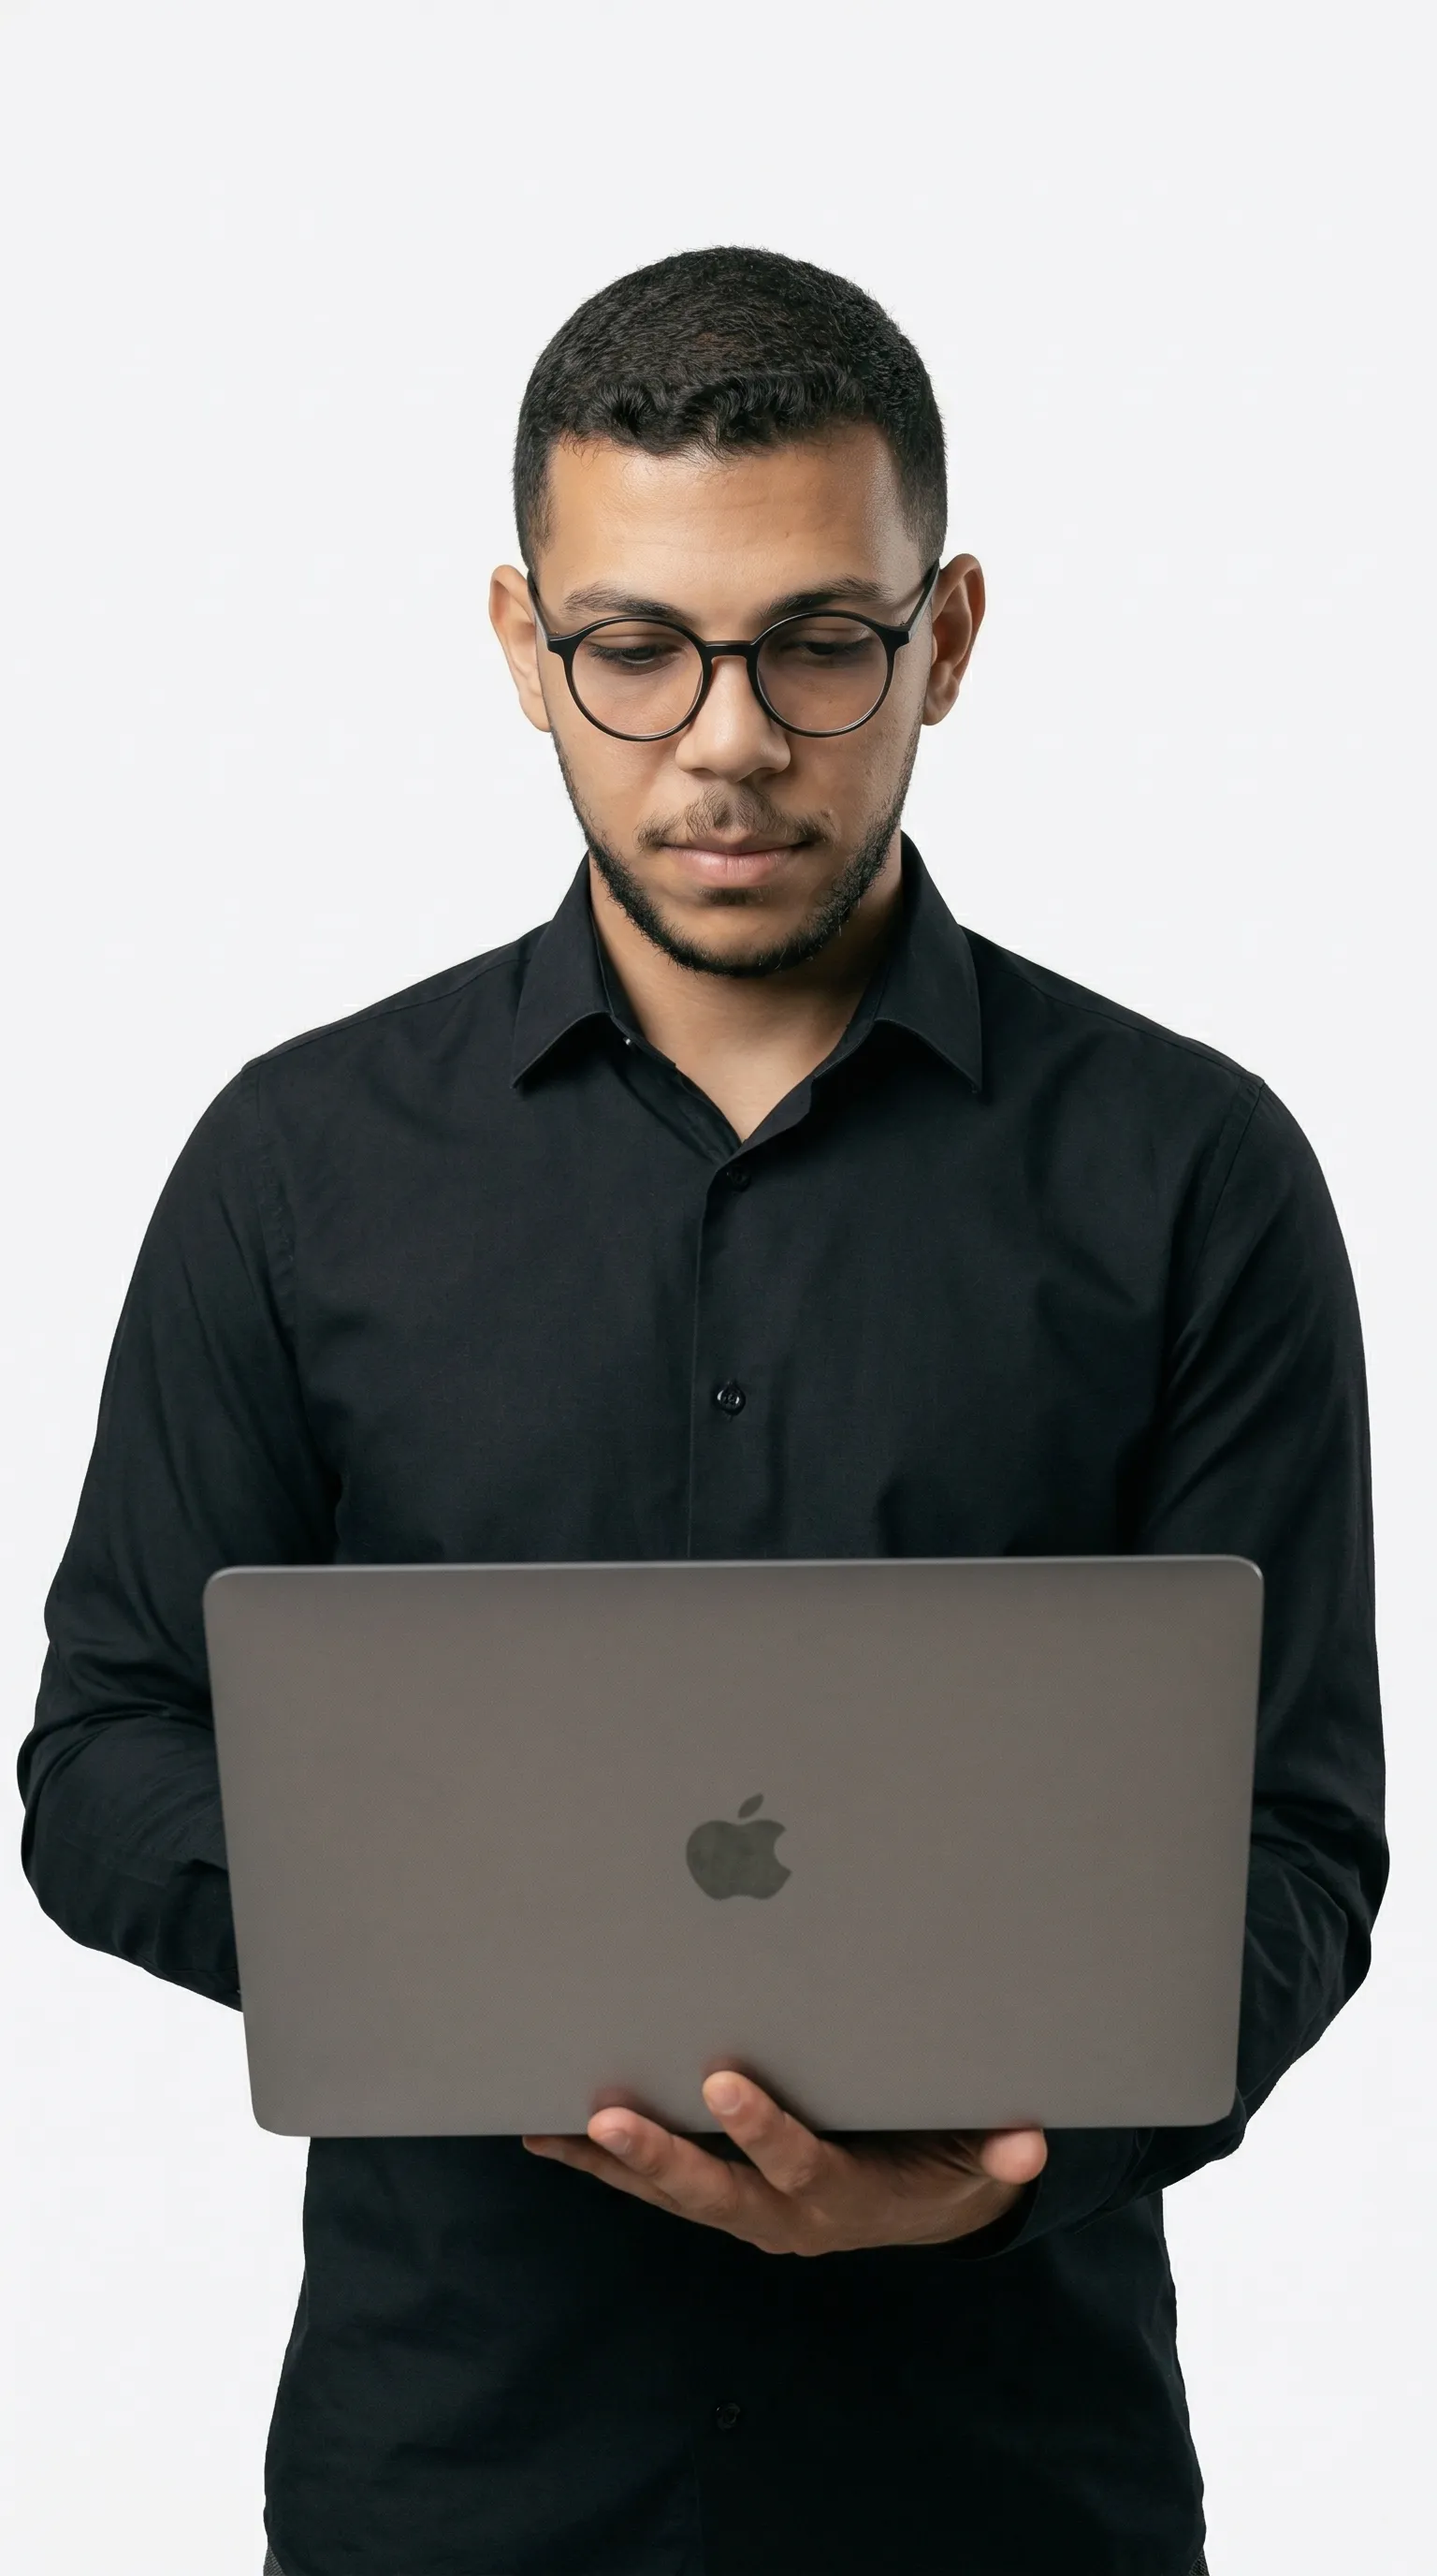
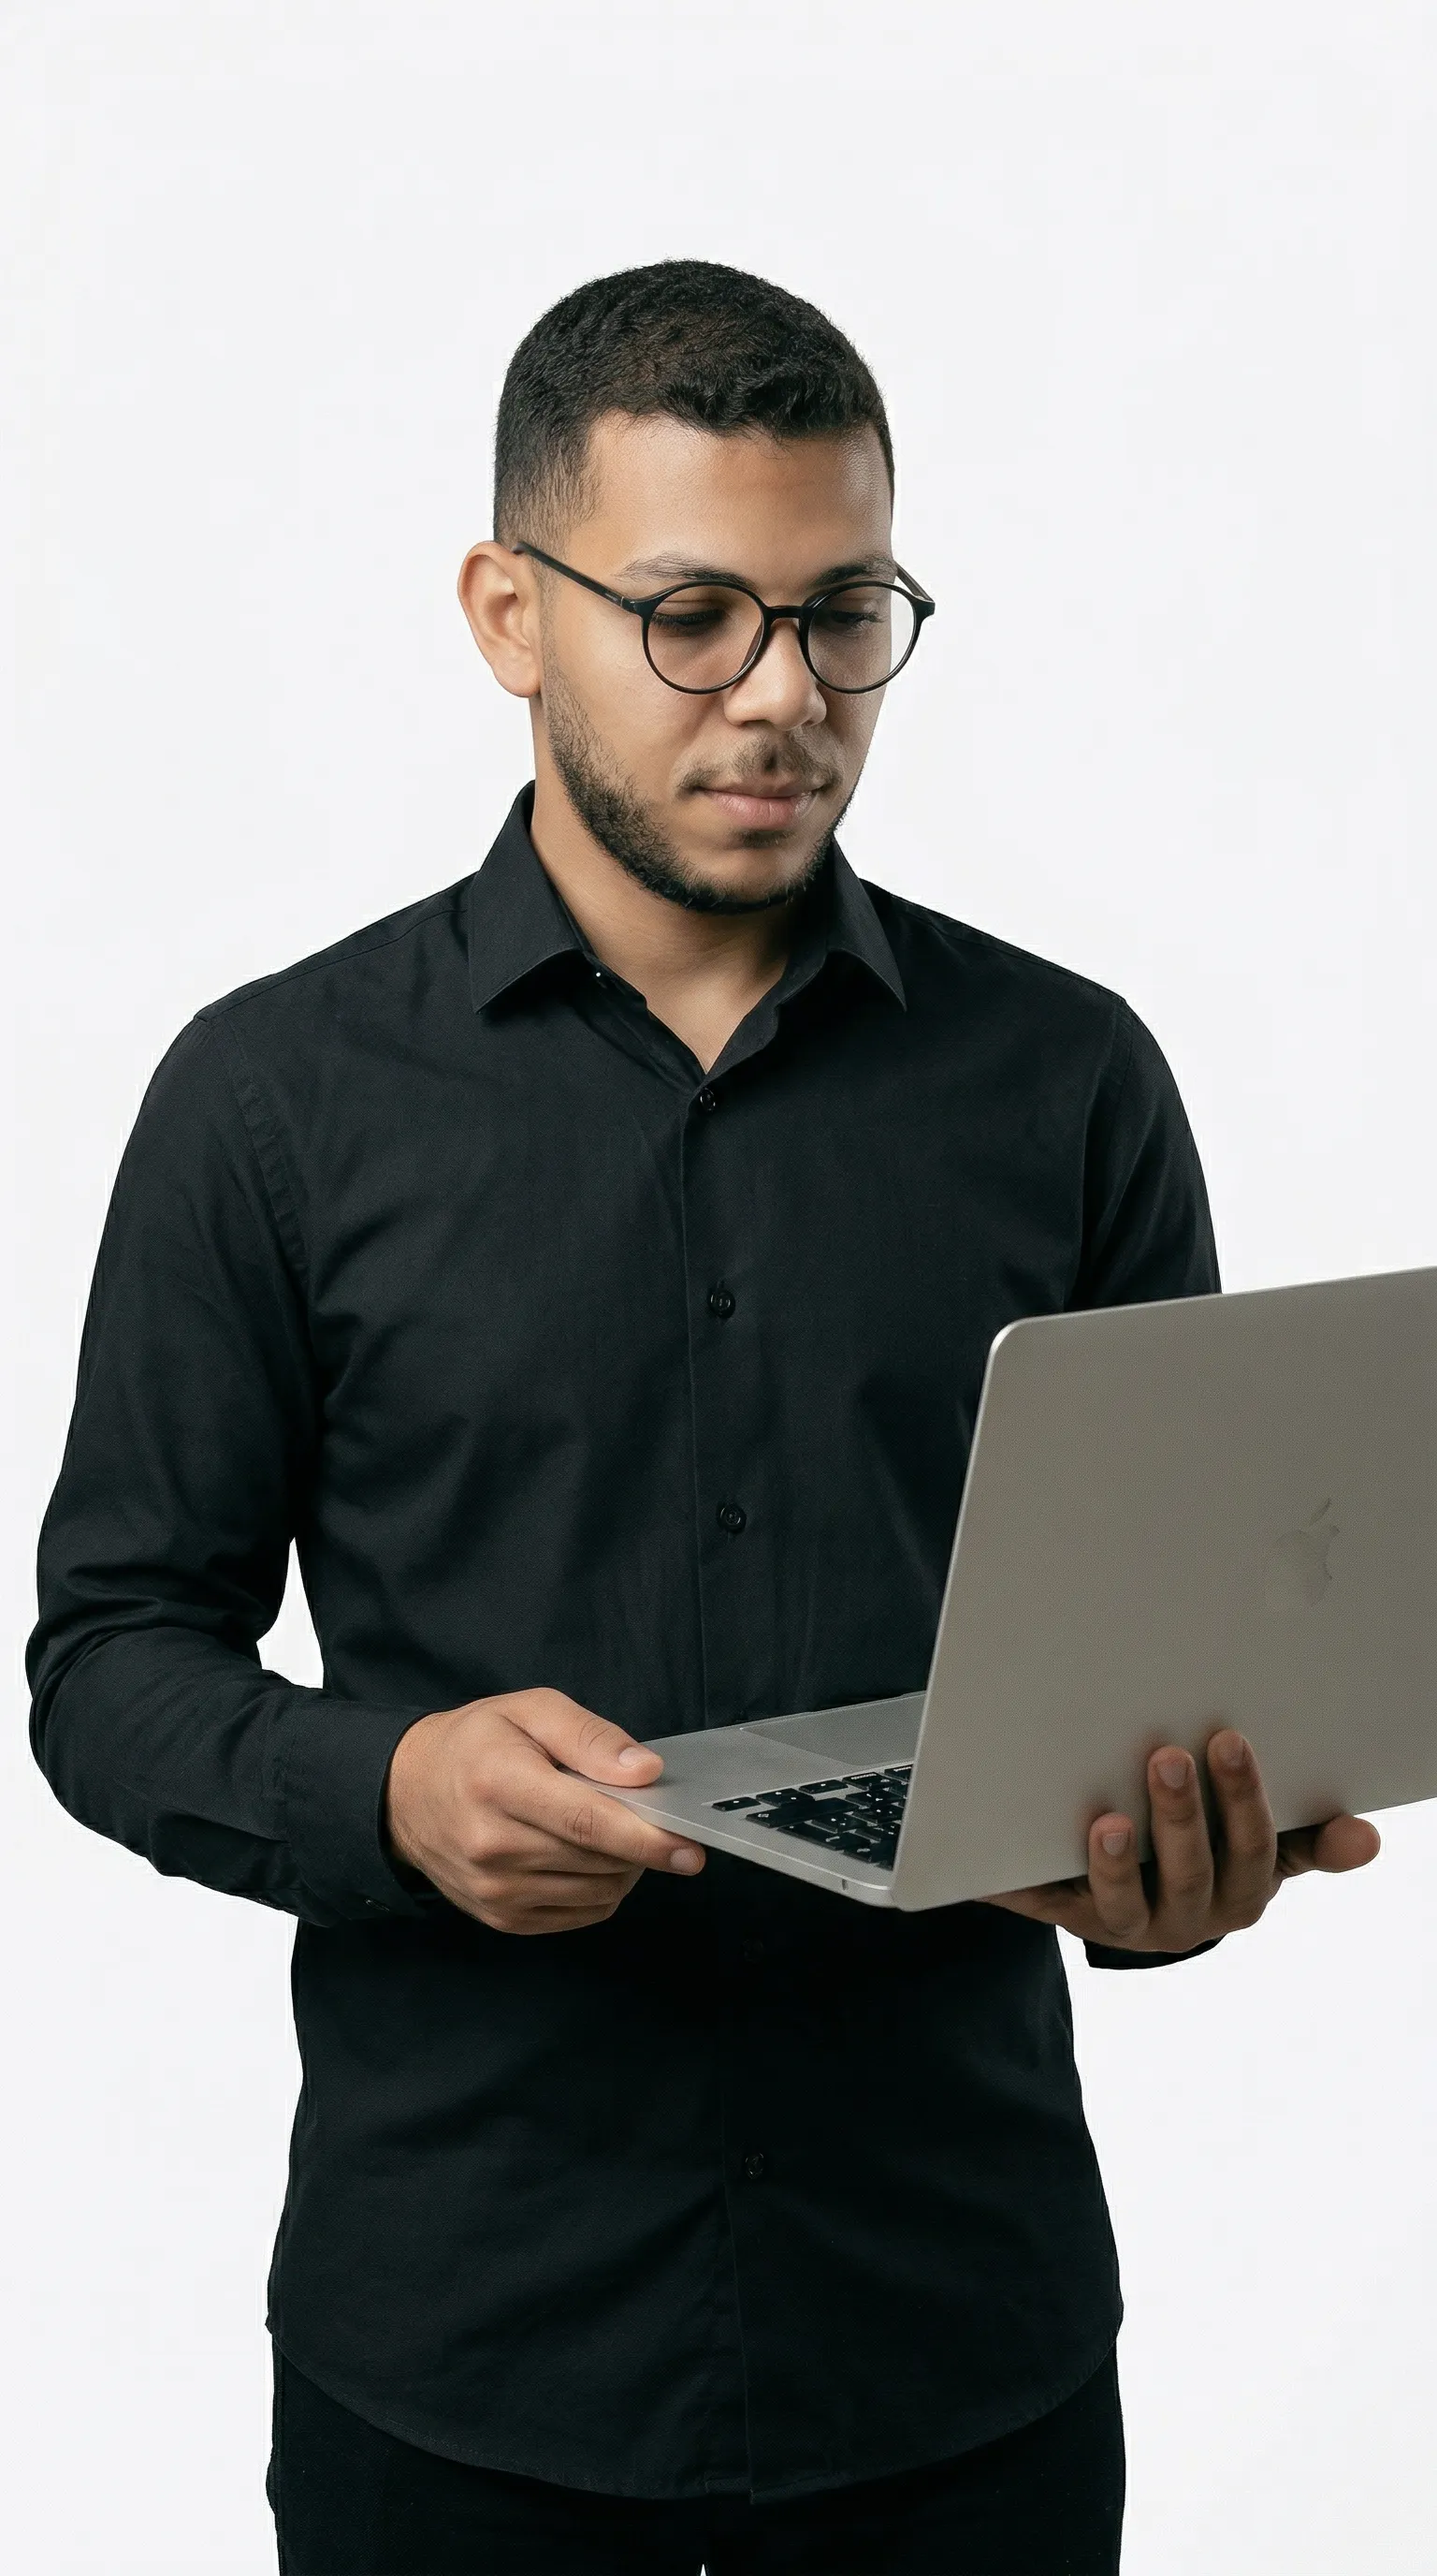
some modification for the loader

diff --git a/src/App.jsx b/src/App.jsx
@@ -1,4 +1,4 @@
-import React, { useEffect, useState } from "react";
+import React, { useEffect, useRef, useState } from "react";
 import Navbar from "./components/Navbar";
 import ScrollSmootherLayout from "./components/ScrollSmootherLayout.jsx";
 import Hero from "./components/Hero.jsx";
@@ -6,71 +6,130 @@ import About from "./components/About.jsx";
 import Services from "./components/Services.jsx";
 import Contact from "./components/Contact.jsx";
 import Work from "./components/Work.jsx";
-import BentoGallery from "./components/BentoGallery.jsx";
 import Feedback from "./components/Feedback.jsx";
+
+const ASSET_TIMEOUT_MS = 8000;
+const MIN_LOADER_MS = 450;
 
 export default function App() {
   const [targetProgress, setTargetProgress] = useState(0);
   const [displayProgress, setDisplayProgress] = useState(0);
   const [isReady, setIsReady] = useState(false);
+  const loaderStartRef = useRef(0);
+  const roundedDisplayProgress = Math.round(displayProgress);
 
   useEffect(() => {
-    let loadedCount = 0;
-    let isWindowLoadedCounted = false;
-    const cleanupFns = [];
+    loaderStartRef.current = performance.now();
 
-    const images = Array.from(document.images);
-    const videos = Array.from(document.querySelectorAll("video"));
-    const totalAssets = images.length + videos.length + 1; // +1 for full window load
+    let loadedCount = 0;
+    let isCancelled = false;
+    const cleanupFns = [];
+    const timeoutIds = [];
+    const criticalImages = Array.from(
+      document.querySelectorAll('img[data-preload="critical"]'),
+    );
+    const criticalVideos = Array.from(
+      document.querySelectorAll('video[data-preload="critical"]'),
+    );
+    const includesFonts = Boolean(document.fonts?.ready);
+    const totalAssets =
+      criticalImages.length + criticalVideos.length + (includesFonts ? 1 : 0) + 1; // +1 for window load
 
     const updateProgress = () => {
+      if (isCancelled) return;
       const next = Math.round((loadedCount / totalAssets) * 100);
       setTargetProgress((prev) => Math.max(prev, next));
     };
 
-    const markLoaded = () => {
+    const markLoaded = (teardown) => {
+      if (teardown) teardown();
+      if (isCancelled) return;
       loadedCount += 1;
       updateProgress();
     };
 
-    images.forEach((image) => {
+    const createOnceDone = (teardown) => {
+      let done = false;
+
+      return () => {
+        if (done) return;
+        done = true;
+        markLoaded(teardown);
+      };
+    };
+
+    criticalImages.forEach((image) => {
       if (image.complete) {
         markLoaded();
         return;
       }
 
-      const onLoad = () => markLoaded();
-      const onError = () => markLoaded();
+      let assetTimeout = 0;
+      let onLoad = null;
+      let onError = null;
+      const onDone = createOnceDone(() => {
+        if (onLoad) image.removeEventListener("load", onLoad);
+        if (onError) image.removeEventListener("error", onError);
+        window.clearTimeout(assetTimeout);
+      });
+
+      assetTimeout = window.setTimeout(onDone, ASSET_TIMEOUT_MS);
+      timeoutIds.push(assetTimeout);
+
+      onLoad = () => onDone();
+      onError = () => onDone();
       image.addEventListener("load", onLoad, { once: true });
       image.addEventListener("error", onError, { once: true });
       cleanupFns.push(() => {
         image.removeEventListener("load", onLoad);
         image.removeEventListener("error", onError);
+        window.clearTimeout(assetTimeout);
       });
     });
 
-    videos.forEach((video) => {
-      if (video.readyState >= 3) {
+    criticalVideos.forEach((video) => {
+      if (video.readyState >= 2) {
         markLoaded();
         return;
       }
 
-      const onLoadedData = () => markLoaded();
-      const onError = () => markLoaded();
+      let assetTimeout = 0;
+      let onLoadedData = null;
+      let onError = null;
+      const onDone = createOnceDone(() => {
+        if (onLoadedData) video.removeEventListener("loadeddata", onLoadedData);
+        if (onError) video.removeEventListener("error", onError);
+        window.clearTimeout(assetTimeout);
+      });
+
+      assetTimeout = window.setTimeout(onDone, ASSET_TIMEOUT_MS);
+      timeoutIds.push(assetTimeout);
+
+      onLoadedData = () => onDone();
+      onError = () => onDone();
       video.addEventListener("loadeddata", onLoadedData, { once: true });
       video.addEventListener("error", onError, { once: true });
       cleanupFns.push(() => {
         video.removeEventListener("loadeddata", onLoadedData);
         video.removeEventListener("error", onError);
+        window.clearTimeout(assetTimeout);
       });
     });
 
-    const onWindowLoaded = () => {
-      if (isWindowLoadedCounted) return;
-      isWindowLoadedCounted = true;
-      markLoaded();
-      setTargetProgress(100);
-    };
+    const onFontsDone = createOnceDone();
+    if (includesFonts) {
+      let fontTimeout = 0;
+      fontTimeout = window.setTimeout(onFontsDone, ASSET_TIMEOUT_MS);
+      timeoutIds.push(fontTimeout);
+      document.fonts.ready.finally(() => {
+        window.clearTimeout(fontTimeout);
+        onFontsDone();
+      });
+    } else {
+      onFontsDone();
+    }
+
+    const onWindowLoaded = createOnceDone();
 
     if (document.readyState === "complete") {
       onWindowLoaded();
@@ -82,40 +141,77 @@ export default function App() {
     }
 
     return () => {
+      isCancelled = true;
       cleanupFns.forEach((fn) => fn());
+      timeoutIds.forEach((id) => window.clearTimeout(id));
     };
   }, []);
 
   useEffect(() => {
-    if (displayProgress >= targetProgress) return;
+    let rafId = 0;
 
-    const timer = window.setInterval(() => {
+    const animate = () => {
       setDisplayProgress((current) => {
-        if (current >= targetProgress) return current;
-        const diff = targetProgress - current;
-        const step = diff > 12 ? 4 : 1;
-        return Math.min(current + step, targetProgress);
-      });
-    }, 16);
+        if (current >= targetProgress || targetProgress <= 0) {
+          return current;
+        }
 
-    return () => window.clearInterval(timer);
-  }, [targetProgress, displayProgress]);
+        const diff = targetProgress - current;
+        const step = diff > 20 ? 3.2 : diff > 8 ? 1.8 : 0.8;
+        const next = Math.min(current + step, targetProgress);
+
+        if (next < targetProgress) {
+          rafId = window.requestAnimationFrame(animate);
+        }
+
+        return next;
+      });
+    };
+
+    rafId = window.requestAnimationFrame(animate);
+
+    return () => window.cancelAnimationFrame(rafId);
+  }, [targetProgress]);
 
   useEffect(() => {
-    if (targetProgress !== 100 || displayProgress !== 100) return;
+    if (targetProgress !== 100 || roundedDisplayProgress !== 100) return;
+
+    const elapsed = performance.now() - loaderStartRef.current;
+    const delay = Math.max(0, MIN_LOADER_MS - elapsed);
 
     const doneTimer = window.setTimeout(() => {
       setIsReady(true);
-    }, 200);
+    }, delay);
 
     return () => window.clearTimeout(doneTimer);
-  }, [targetProgress, displayProgress]);
+  }, [targetProgress, roundedDisplayProgress]);
 
   useEffect(() => {
-    document.body.style.overflow = isReady ? "" : "hidden";
+    if (isReady) return;
+
+    const scrollY = window.scrollY;
+    const previousStyles = {
+      overflow: document.body.style.overflow,
+      position: document.body.style.position,
+      width: document.body.style.width,
+      top: document.body.style.top,
+      overscrollBehaviorY: document.documentElement.style.overscrollBehaviorY,
+    };
+
+    document.body.style.overflow = "hidden";
+    document.body.style.position = "fixed";
+    document.body.style.width = "100%";
+    document.body.style.top = `-${scrollY}px`;
+    document.documentElement.style.overscrollBehaviorY = "none";
 
     return () => {
-      document.body.style.overflow = "";
+      document.body.style.overflow = previousStyles.overflow;
+      document.body.style.position = previousStyles.position;
+      document.body.style.width = previousStyles.width;
+      document.body.style.top = previousStyles.top;
+      document.documentElement.style.overscrollBehaviorY =
+        previousStyles.overscrollBehaviorY;
+      window.scrollTo(0, scrollY);
     };
   }, [isReady]);
 
@@ -124,14 +220,21 @@ export default function App() {
       {!isReady && (
         <div className="fixed inset-0 z-9999 bg-black flex items-center justify-center">
           <div className="w-[min(440px,80vw)]">
-            <div className="h-1 w-full bg-white/20 overflow-hidden">
+            <div
+              className="h-1 w-full bg-white/20 overflow-hidden"
+              role="progressbar"
+              aria-label="Page loading progress"
+              aria-valuenow={roundedDisplayProgress}
+              aria-valuemin={0}
+              aria-valuemax={100}
+            >
               <div
                 className="h-full bg-white transition-[width] duration-150 ease-out"
-                style={{ width: `${displayProgress}%` }}
+                style={{ width: `${roundedDisplayProgress}%` }}
               />
             </div>
-            <p className="mt-4 text-center text-white text-sm tabular-nums">
-              {displayProgress}%
+            <p className="mt-4 text-center text-white text-sm tabular-nums" aria-live="polite">
+              {roundedDisplayProgress}%
             </p>
           </div>
         </div>

diff --git a/src/components/ScrollSmootherLayout.jsx b/src/components/ScrollSmootherLayout.jsx
@@ -12,13 +12,20 @@ export default function ScrollSmootherLayout({ children, enabled = true }) {
 
   useGSAP(() => {
     if (!enabled || !wrapperRef.current || !contentRef.current) return;
+    const isTouchDevice =
+      window.matchMedia("(hover: none), (pointer: coarse)").matches;
+    const prefersReducedMotion = window.matchMedia(
+      "(prefers-reduced-motion: reduce)",
+    ).matches;
+
+    if (isTouchDevice || prefersReducedMotion) return;
 
     const smoother = ScrollSmoother.create({
       wrapper: wrapperRef.current,
       content: contentRef.current,
       smooth: 1,
       effects: true,
-      smoothTouch: 0.1,
+      smoothTouch: 0,
     });
 
     return () => {

diff --git a/src/components/Work.jsx b/src/components/Work.jsx
@@ -172,6 +172,8 @@ export default function Work() {
               <img
                 src={project.image}
                 alt={`${project.name}-image`}
+                loading="lazy"
+                decoding="async"
                 className="absolute bg-center px-14 rounded-xl"
               />
             </div>
@@ -186,6 +188,8 @@ export default function Work() {
             <img
               src={projects[currentIndex].image}
               alt="preview"
+              loading="lazy"
+              decoding="async"
               className="object-cover w-full h-full"
             />
           )}

diff --git a/src/components/Hero.jsx b/src/components/Hero.jsx
@@ -101,11 +101,12 @@ export default function Hero() {
       <div className="absolute inset-0 -z-5 pointer-events-none">
         <video
           className="absolute inset-0 w-full h-full object-cover object-top"
+          data-preload="critical"
           autoPlay
           muted
           playsInline
           loop
-          preload="auto"
+          preload="metadata"
         >
           <source src={bgvideo} type="video/mp4" />
         </video>

diff --git a/index.html b/index.html
@@ -20,6 +20,7 @@
     <meta name="application-name" content="Mohammed Ashraf Portfolio" />
     <meta name="apple-mobile-web-app-title" content="Mohammed Ashraf Portfolio" />
     <meta name="format-detection" content="telephone=no" />
+    <link rel="preload" href="/assets/bgvideo.mp4" as="video" type="video/mp4" />
     <link rel="canonical" href="https://mohammedabutaleb.com/" />
 
     <meta property="og:type" content="website" />

diff --git a/src/components/Services.jsx b/src/components/Services.jsx
@@ -57,6 +57,8 @@ export default function Services() {
               ref={imageRef}
               src={servicesImg}
               alt="services"
+              loading="lazy"
+              decoding="async"
               className="object-cover w-full max-w-lg"
             />
             <div className="absolute inset-0 bg-black/30" />
